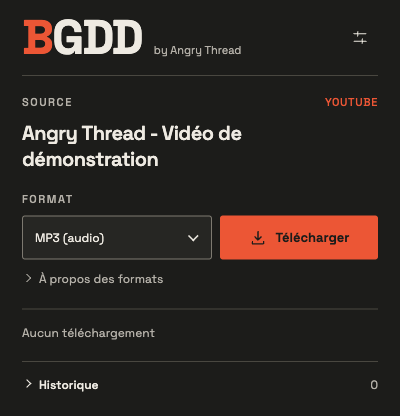
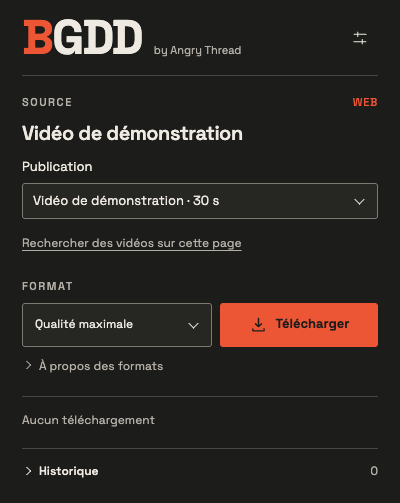
BGDD 0.6.2 — sélection compacte, compteur corrigé et captures actualisées [skip ci]

diff --git a/README.md b/README.md
@@ -4,14 +4,14 @@
 
 BGDD est un logiciel **gratuit et propriétaire** qui associe une extension Chrome à un moteur local macOS. Choisissez une publication, un format et un dossier : le téléchargement et le traitement se font sur votre Mac. Aucun compte BGDD, abonnement, serveur de téléchargement ou télémétrie.
 
-**Version 0.6.1 — Apple Silicon et Intel.** [Notes de version](https://github.com/enrimerveille/BGDD/releases/tag/v0.6.1).
+**Version 0.6.2 — Apple Silicon et Intel.** [Notes de version](https://github.com/enrimerveille/BGDD/releases/tag/v0.6.2).
 
 | Votre Mac | Télécharger |
 |---|---|
-| Apple Silicon (ARM64), macOS 27 | [DMG Apple Silicon](https://github.com/enrimerveille/BGDD/releases/download/v0.6.1/BGDD-macOS-arm64.dmg) |
-| Intel (x86_64), macOS 26 | [DMG Intel](https://github.com/enrimerveille/BGDD/releases/download/v0.6.1/BGDD-macOS-x86_64.dmg) |
+| Apple Silicon (ARM64), macOS 27 | [DMG Apple Silicon](https://github.com/enrimerveille/BGDD/releases/download/v0.6.2/BGDD-macOS-arm64.dmg) |
+| Intel (x86_64), macOS 26 | [DMG Intel](https://github.com/enrimerveille/BGDD/releases/download/v0.6.2/BGDD-macOS-x86_64.dmg) |
 
-<p align="center"><img src="https://github.com/enrimerveille/BGDD/raw/main/assets/popup-light.png" width="320" alt="BGDD clair"><img src="https://github.com/enrimerveille/BGDD/raw/main/assets/popup-dark.png" width="320" alt="BGDD sombre"></p>
+<p align="center"><img src="https://github.com/enrimerveille/BGDD/raw/main/assets/popup-light.png" width="320" alt="BGDD clair">&emsp;<img src="https://github.com/enrimerveille/BGDD/raw/main/assets/popup-dark.png" width="320" alt="BGDD sombre"></p>
 
 Si la recherche de mises à jour d’une ancienne version ne fonctionne plus, [téléchargez la dernière version](https://github.com/enrimerveille/BGDD/releases), puis mettez à jour BGDD sans supprimer l’extension Chrome.
 

diff --git a/README.en.md b/README.en.md
@@ -4,14 +4,14 @@
 
 BGDD is **free proprietary software** pairing a Chrome extension with a local macOS engine. Choose a publication, format and folder: downloading and processing stay on your Mac. No BGDD account, subscription, download server or telemetry.
 
-**Version 0.6.1 — Apple Silicon and Intel.** [Release notes](https://github.com/enrimerveille/BGDD/releases/tag/v0.6.1).
+**Version 0.6.2 — Apple Silicon and Intel.** [Release notes](https://github.com/enrimerveille/BGDD/releases/tag/v0.6.2).
 
 | Your Mac | Download |
 |---|---|
-| Apple Silicon (ARM64), macOS 27 | [DMG Apple Silicon](https://github.com/enrimerveille/BGDD/releases/download/v0.6.1/BGDD-macOS-arm64.dmg) |
-| Intel (x86_64), macOS 26 | [DMG Intel](https://github.com/enrimerveille/BGDD/releases/download/v0.6.1/BGDD-macOS-x86_64.dmg) |
+| Apple Silicon (ARM64), macOS 27 | [DMG Apple Silicon](https://github.com/enrimerveille/BGDD/releases/download/v0.6.2/BGDD-macOS-arm64.dmg) |
+| Intel (x86_64), macOS 26 | [DMG Intel](https://github.com/enrimerveille/BGDD/releases/download/v0.6.2/BGDD-macOS-x86_64.dmg) |
 
-<p align="center"><img src="https://github.com/enrimerveille/BGDD/raw/main/assets/popup-light.png" width="320" alt="BGDD light"><img src="https://github.com/enrimerveille/BGDD/raw/main/assets/popup-dark.png" width="320" alt="BGDD dark"></p>
+<p align="center"><img src="https://github.com/enrimerveille/BGDD/raw/main/assets/popup-light.png" width="320" alt="BGDD light">&emsp;<img src="https://github.com/enrimerveille/BGDD/raw/main/assets/popup-dark.png" width="320" alt="BGDD dark"></p>
 
 If update checking stops working in an older version, [download the latest release](https://github.com/enrimerveille/BGDD/releases) and update BGDD while keeping your existing Chrome extension.
 

diff --git a/docs/DISTRIBUTION-RELEASE.md b/docs/DISTRIBUTION-RELEASE.md
@@ -1,7 +1,8 @@
-# BGDD 0.6.1 — Une seule version partout
+# BGDD 0.6.2 — Une sélection vidéo plus compacte
 
-- Le même numéro 0.6.1 identifie BGDD sur GitHub, dans Chrome et sur votre Mac.
-- La numérotation commune sera conservée lors des prochaines mises à jour.
-- Les améliorations de l’interface, des formats et des noms de fichiers de la précédente préversion sont conservées.
+- La durée apparaît une seule fois, dans le choix de vidéo.
+- « Rechercher des vidéos sur cette page » est rapproché du menu.
+- Le compteur de téléchargements utilise un chiffre clair sur fond sombre en mode sombre, et l’inverse en mode clair.
+- Le même numéro 0.6.2 identifie BGDD sur GitHub, dans Chrome et sur votre Mac.
 
 Apple Silicon : macOS 27. Intel : macOS 26. Téléchargez le DMG adapté à votre Mac, mettez à jour BGDD puis actualisez sa carte dans Chrome.
